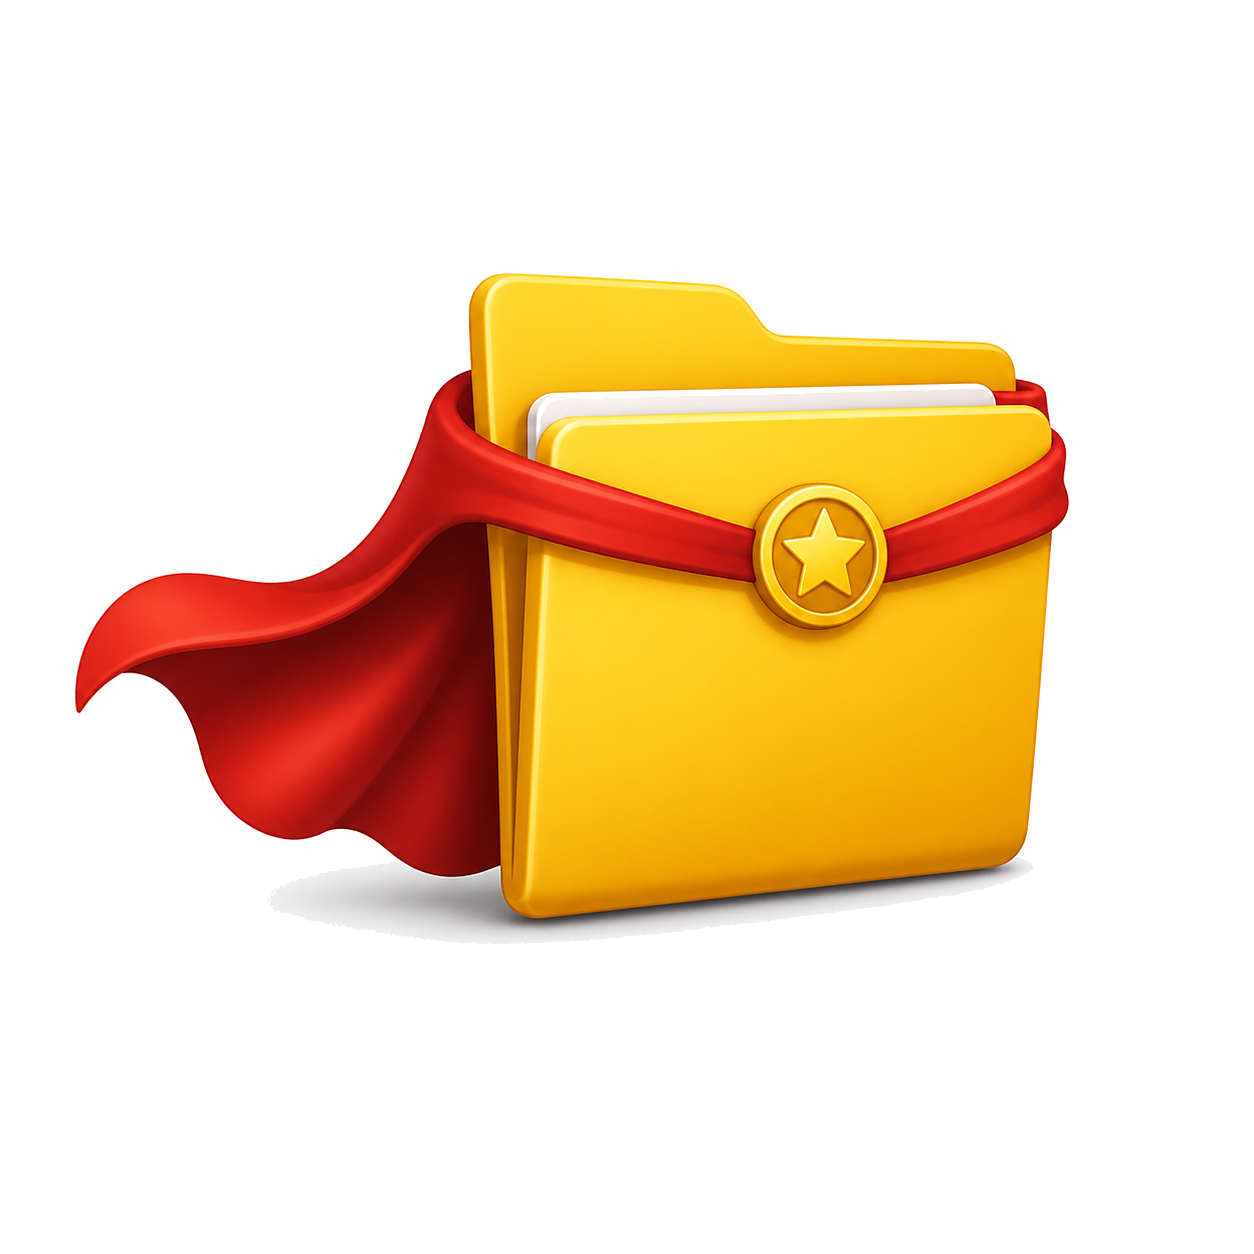
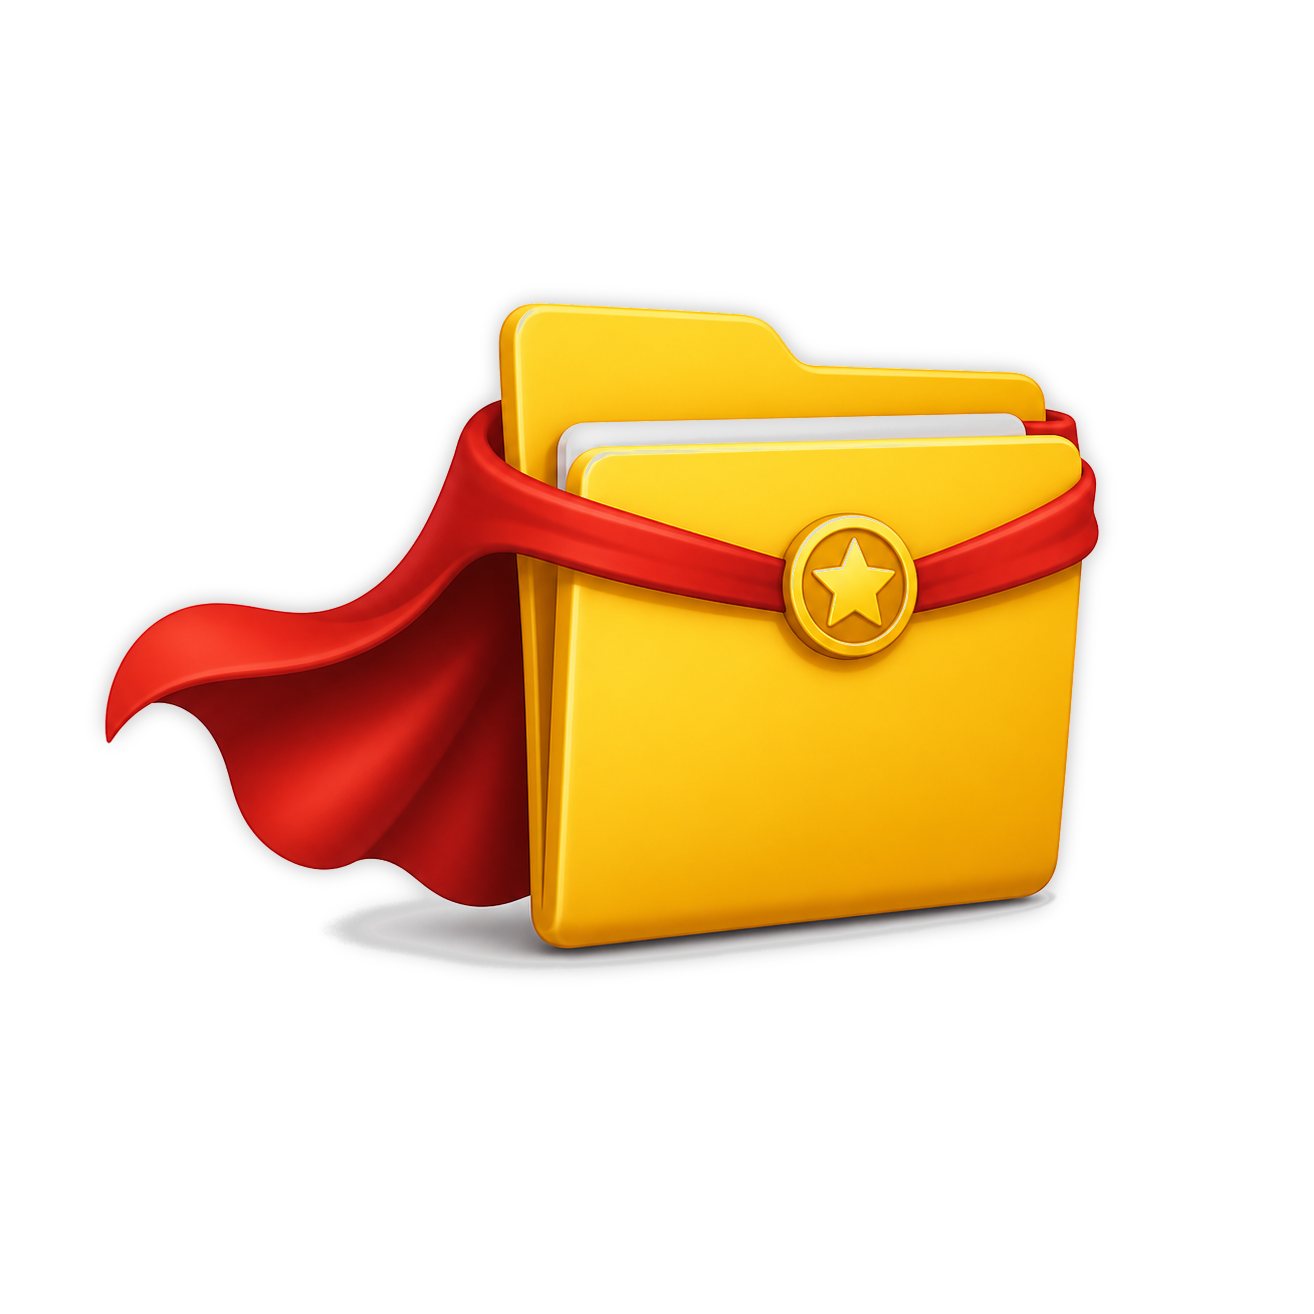
v0.1.1 — UX polish + auto-update error handling
- Logo Suite des Héros détouré (fond transparent + halo blanc)
- Modale "En savoir plus" enrichie : description longue, fonctionnalités, liens externes
- Modale "Mon compte" : logo Triskell + couleurs harmonisées (plus de violets en conflit)
- Fenêtres d'achat Stripe ouvertes maximisées
- Fix affichage erreur auto-update : 404 → message lisible au lieu de la stack HTTP brute
- Fix accent : "demande" → "demandé" dans l'email de connexion
- apps.json : description longue + features + links pour chaque app
- scripts/detoure_logo.py : utilitaire de détourage + halo blanc

Changed region(s): [[0.0622, 0.2177, 0.8708, 0.7464], [0.1244, 0.4354, 0.1555, 0.4665]]

diff --git a/renderer.js b/renderer.js
@@ -312,8 +312,11 @@
     openModal({
       title: 'Mon compte Triskell',
       bodyHtml: `
-        <p class="muted">Connecté avec <strong style="color:var(--accent)">${escapeHtml(state.user.email)}</strong></p>
-        <p class="muted">Tu possèdes <strong>${Object.keys(state.licenses).length}</strong> licence${Object.keys(state.licenses).length > 1 ? 's' : ''}.</p>
+        <div style="display:flex;justify-content:center;margin:-4px 0 14px;">
+          <img src="assets/triskell_mark.png" alt="Triskell" style="width:64px;height:64px;border-radius:14px;box-shadow:0 4px 18px rgba(0,0,0,0.35);" />
+        </div>
+        <p class="muted" style="text-align:center;">Connecté avec <strong style="color:var(--text);">${escapeHtml(state.user.email)}</strong></p>
+        <p class="muted" style="text-align:center;">Tu possèdes <strong style="color:var(--text);">${Object.keys(state.licenses).length}</strong> licence${Object.keys(state.licenses).length > 1 ? 's' : ''}.</p>
 
         <div class="account-section profile-section">
           <label class="profile-field">
@@ -1009,24 +1012,58 @@
     const owned = state.licenses[app.id] || app.tier === 'free';
     const installed = !!state.installs[app.id];
 
-    let toolsHtml = '';
-    if (Array.isArray(app.tools) && app.tools.length) {
-      toolsHtml = `
-        <p class="muted" style="margin-top:14px;font-weight:600;">Outils inclus :</p>
+    // Description longue
+    let descHtml = '';
+    if (app.description) {
+      descHtml = `<p style="margin-top:14px;line-height:1.55;">${escapeHtml(app.description)}</p>`;
+    }
+
+    // Liste des fonctionnalités cles
+    let featuresHtml = '';
+    if (Array.isArray(app.features) && app.features.length) {
+      featuresHtml = `
+        <p class="muted" style="margin-top:18px;font-weight:600;color:var(--text);">Ce que tu peux faire :</p>
         <ul style="padding-left:18px;margin:6px 0 0;">
-          ${app.tools.map(t =>
-            `<li class="muted small"><strong style="color:var(--text);">${escapeHtml(t.name)}</strong> — ${escapeHtml(t.tagline)}</li>`
+          ${app.features.map(f =>
+            `<li class="muted small" style="margin:4px 0;color:var(--text);">${escapeHtml(f)}</li>`
           ).join('')}
         </ul>
       `;
     }
 
+    // Outils inclus (Suite des Heros)
+    let toolsHtml = '';
+    if (Array.isArray(app.tools) && app.tools.length) {
+      toolsHtml = `
+        <p class="muted" style="margin-top:18px;font-weight:600;color:var(--text);">Les ${app.tools.length} outils inclus :</p>
+        <ul style="padding-left:18px;margin:6px 0 0;">
+          ${app.tools.map(t =>
+            `<li class="muted small" style="margin:4px 0;"><strong style="color:var(--text);">${escapeHtml(t.name)}</strong> — ${escapeHtml(t.tagline)}</li>`
+          ).join('')}
+        </ul>
+      `;
+    }
+
+    // Liens externes (site, CGV, support, etc.)
+    let linksHtml = '';
+    if (Array.isArray(app.links) && app.links.length) {
+      linksHtml = `
+        <p class="muted" style="margin-top:18px;font-weight:600;color:var(--text);">En savoir plus :</p>
+        <ul style="padding-left:0;margin:6px 0 0;list-style:none;">
+          ${app.links.map(l =>
+            `<li style="margin:4px 0;"><a href="#" data-external="${escapeHtml(l.url)}" style="color:var(--accent);text-decoration:none;">→ ${escapeHtml(l.label)}</a></li>`
+          ).join('')}
+        </ul>
+      `;
+    }
+
+    // Prix
     let priceHtml = '';
     if (!owned && app.price) {
       const original = app.priceOriginal && app.priceOriginal > app.price
         ? `<span class="price-old">${app.priceOriginal} €</span>` : '';
       priceHtml = `
-        <div class="price-block" style="margin-top:14px;">
+        <div class="price-block" style="margin-top:18px;">
           <span class="price-current">${app.price} €</span>
           ${original}
           ${app.priceNote ? `<span class="price-note">${escapeHtml(app.priceNote)}</span>` : ''}
@@ -1036,19 +1073,33 @@
     }
 
     const uninstallBtn = installed
-      ? `<button class="ghost-btn" id="uninstall-btn" style="margin-top:14px;color:var(--danger);border-color:var(--danger);">Désinstaller</button>`
+      ? `<button class="ghost-btn" id="uninstall-btn" style="margin-top:18px;color:var(--danger);border-color:var(--danger);">Désinstaller</button>`
       : '';
 
     openModal({
       title: app.name,
       bodyHtml: `
-        <p class="muted">${escapeHtml(app.tagline || '')}</p>
+        <p class="muted" style="font-style:italic;">${escapeHtml(app.tagline || '')}</p>
         <p class="muted small">Statut : ${owned ? '<strong style="color:var(--green)">possédé</strong>' : 'non acquis'}${installed ? ' · installé' : ''}</p>
-        ${priceHtml}
+        ${descHtml}
+        ${featuresHtml}
         ${toolsHtml}
+        ${linksHtml}
+        ${priceHtml}
         ${uninstallBtn}
       `,
       ctaLabel: 'OK'
+    });
+
+    // Liens externes -> ouvrir dans le navigateur par defaut, pas dans Electron
+    document.querySelectorAll('[data-external]').forEach(link => {
+      link.addEventListener('click', (e) => {
+        e.preventDefault();
+        const url = link.getAttribute('data-external');
+        if (url && window.triskell && window.triskell.openExternal) {
+          window.triskell.openExternal(url);
+        }
+      });
     });
 
     const ub = document.getElementById('uninstall-btn');

diff --git a/style.css b/style.css
@@ -1192,6 +1192,31 @@ input, button { outline: none; }
   filter: saturate(0.9);
 }
 
+/* Pirate Life Mail : un cran plus présent que les autres "En quête",
+   et un halo violet/rose autour de la tête d'ours pour le signaler. */
+.tile.is-coming-soon[data-id="pirate-life-mail"] {
+  opacity: 0.78;
+  filter: saturate(0.88);
+}
+.tile.is-coming-soon[data-id="pirate-life-mail"]:hover {
+  opacity: 0.96;
+  filter: saturate(1);
+}
+/* On retire le médaillon carré pour Pirate Life Mail : le halo doit suivre
+   la silhouette de la tête d'ours, pas un cadre. drop-shadow respecte la
+   transparence du PNG, contrairement à box-shadow qui dessine un rectangle. */
+.tile[data-id="pirate-life-mail"] .tile-icon {
+  background: none;
+  border: none;
+  overflow: visible;
+}
+.tile[data-id="pirate-life-mail"] .tile-icon::after { display: none; }
+.tile[data-id="pirate-life-mail"] .tile-icon img {
+  filter:
+    drop-shadow(0 0 6px rgba(167, 139, 250, 0.85))
+    drop-shadow(0 0 14px rgba(236, 72, 153, 0.55));
+}
+
 /* Tuile "Populaire" — petit ruban en haut à droite, halo discret */
 .tile.is-featured {
   border-color: rgba(167, 139, 250, 0.35);

diff --git a/main.js b/main.js
@@ -23,9 +23,10 @@ catch (_) { /* dev */ }
 // =============================================================================
 // Configuration
 // =============================================================================
-// Une fois le DNS de api.triskell-studio.fr configure, on pourra repointer
-// dessus. En attendant, l'URL netlify.app marche aussi parfaitement.
-const API_BASE = process.env.TRISKELL_API_URL || 'https://triskell-lanceur-api.netlify.app';
+// API publique sur le domaine custom Triskell. L'URL netlify.app reste
+// fonctionnelle aussi (cf. Netlify) et peut etre forcee via TRISKELL_API_URL
+// pour les builds de dev.
+const API_BASE = process.env.TRISKELL_API_URL || 'https://api.triskell-studio.fr';
 const IS_DEV = process.env.TRISKELL_DEV === '1';
 
 let mainWindow;

diff --git a/scripts/detoure_logo.py b/scripts/detoure_logo.py
@@ -1,55 +1,57 @@
-"""Détoure le logo Suite des Heros (retire le fond clair) et ajoute un halo blanc."""
-from PIL import Image, ImageFilter, ImageChops
-import os
+"""Détoure un logo (retire le fond clair) et ajoute un halo blanc.
+Usage : python detoure_logo.py <src.png> <out.png> [halo_radius] [halo_strength] [white_threshold]
+"""
+from PIL import Image, ImageFilter
+import sys
 
-SRC = r"C:\Users\jorda\OneDrive\Bureau\Triskell Studio\Triskell 4 - Suite des Heros\landing-pack\public\img\suite-des-heros-logo.png"
-OUT = r"C:\Users\jorda\OneDrive\Bureau\Triskell Studio\Triskell 4 - Suite des Heros\landing-pack\public\img\suite-des-heros-logo-halo.png"
-
-# Tolerance: tout pixel "presque blanc" (>= seuil sur R, G, B) devient transparent.
-WHITE_THRESHOLD = 235
-
-def remove_white_background(img):
+def remove_white_background(img, threshold=235, soft_zone=20):
     img = img.convert("RGBA")
     pixels = img.load()
     w, h = img.size
     for y in range(h):
         for x in range(w):
             r, g, b, a = pixels[x, y]
-            if r >= WHITE_THRESHOLD and g >= WHITE_THRESHOLD and b >= WHITE_THRESHOLD:
+            if r >= threshold and g >= threshold and b >= threshold:
                 pixels[x, y] = (255, 255, 255, 0)
             else:
-                # Anti-aliasing soft : reduit l'alpha sur les pixels presque blancs
                 lightness = (r + g + b) / 3
-                if lightness > 215:
-                    fade = max(0, int(255 - (lightness - 215) * 6))
+                soft_start = threshold - soft_zone
+                if lightness > soft_start:
+                    fade = max(0, int(255 - (lightness - soft_start) * (255 / soft_zone)))
                     pixels[x, y] = (r, g, b, min(a, fade))
     return img
 
-def add_white_halo(img, halo_radius=12, halo_strength=180):
-    """Ajoute un halo blanc autour des zones non transparentes."""
-    # Recupere le canal alpha
+def add_white_halo(img, halo_radius=15, halo_strength=160):
     alpha = img.split()[3]
-    # Flou pour creer le halo
     blurred = alpha.filter(ImageFilter.GaussianBlur(radius=halo_radius))
-    # Creer une image blanche de la taille du logo, modulee par le flou
     halo = Image.new("RGBA", img.size, (255, 255, 255, 0))
     halo_alpha = blurred.point(lambda p: min(halo_strength, p))
     halo.putalpha(halo_alpha)
-    # Compose : halo en dessous, logo au dessus
-    result = Image.alpha_composite(halo, img)
-    return result
+    return Image.alpha_composite(halo, img)
 
-def main():
-    img = Image.open(SRC)
-    print(f"Source: {SRC} ({img.size}, {img.mode})")
-    img = remove_white_background(img)
-    img = add_white_halo(img, halo_radius=15, halo_strength=160)
-    # Padding pour que le halo ne soit pas coupe au bord
-    pad = 30
-    final = Image.new("RGBA", (img.width + pad*2, img.height + pad*2), (0, 0, 0, 0))
-    final.paste(img, (pad, pad), img)
-    final.save(OUT, "PNG")
-    print(f"Saved: {OUT} ({final.size})")
+def process(src, out, halo_radius=15, halo_strength=160, threshold=235, pad=30):
+    img = Image.open(src)
+    print(f"Source: {src} ({img.size}, {img.mode})")
+    img = remove_white_background(img, threshold=threshold)
+    img = add_white_halo(img, halo_radius=halo_radius, halo_strength=halo_strength)
+    if pad > 0:
+        final = Image.new("RGBA", (img.width + pad*2, img.height + pad*2), (0, 0, 0, 0))
+        final.paste(img, (pad, pad), img)
+    else:
+        final = img
+    final.save(out, "PNG")
+    print(f"Saved: {out} ({final.size})")
 
 if __name__ == "__main__":
-    main()
+    if len(sys.argv) < 3:
+        # Mode par defaut : logo Stripe Suite des Heros
+        SRC = r"C:\Users\jorda\OneDrive\Bureau\Triskell Studio\Triskell 4 - Suite des Heros\landing-pack\public\img\suite-des-heros-logo.png"
+        OUT = r"C:\Users\jorda\OneDrive\Bureau\Triskell Studio\Triskell 4 - Suite des Heros\landing-pack\public\img\suite-des-heros-logo-halo.png"
+        process(SRC, OUT)
+    else:
+        src = sys.argv[1]
+        out = sys.argv[2]
+        halo_radius = int(sys.argv[3]) if len(sys.argv) > 3 else 15
+        halo_strength = int(sys.argv[4]) if len(sys.argv) > 4 else 160
+        threshold = int(sys.argv[5]) if len(sys.argv) > 5 else 235
+        process(src, out, halo_radius, halo_strength, threshold)